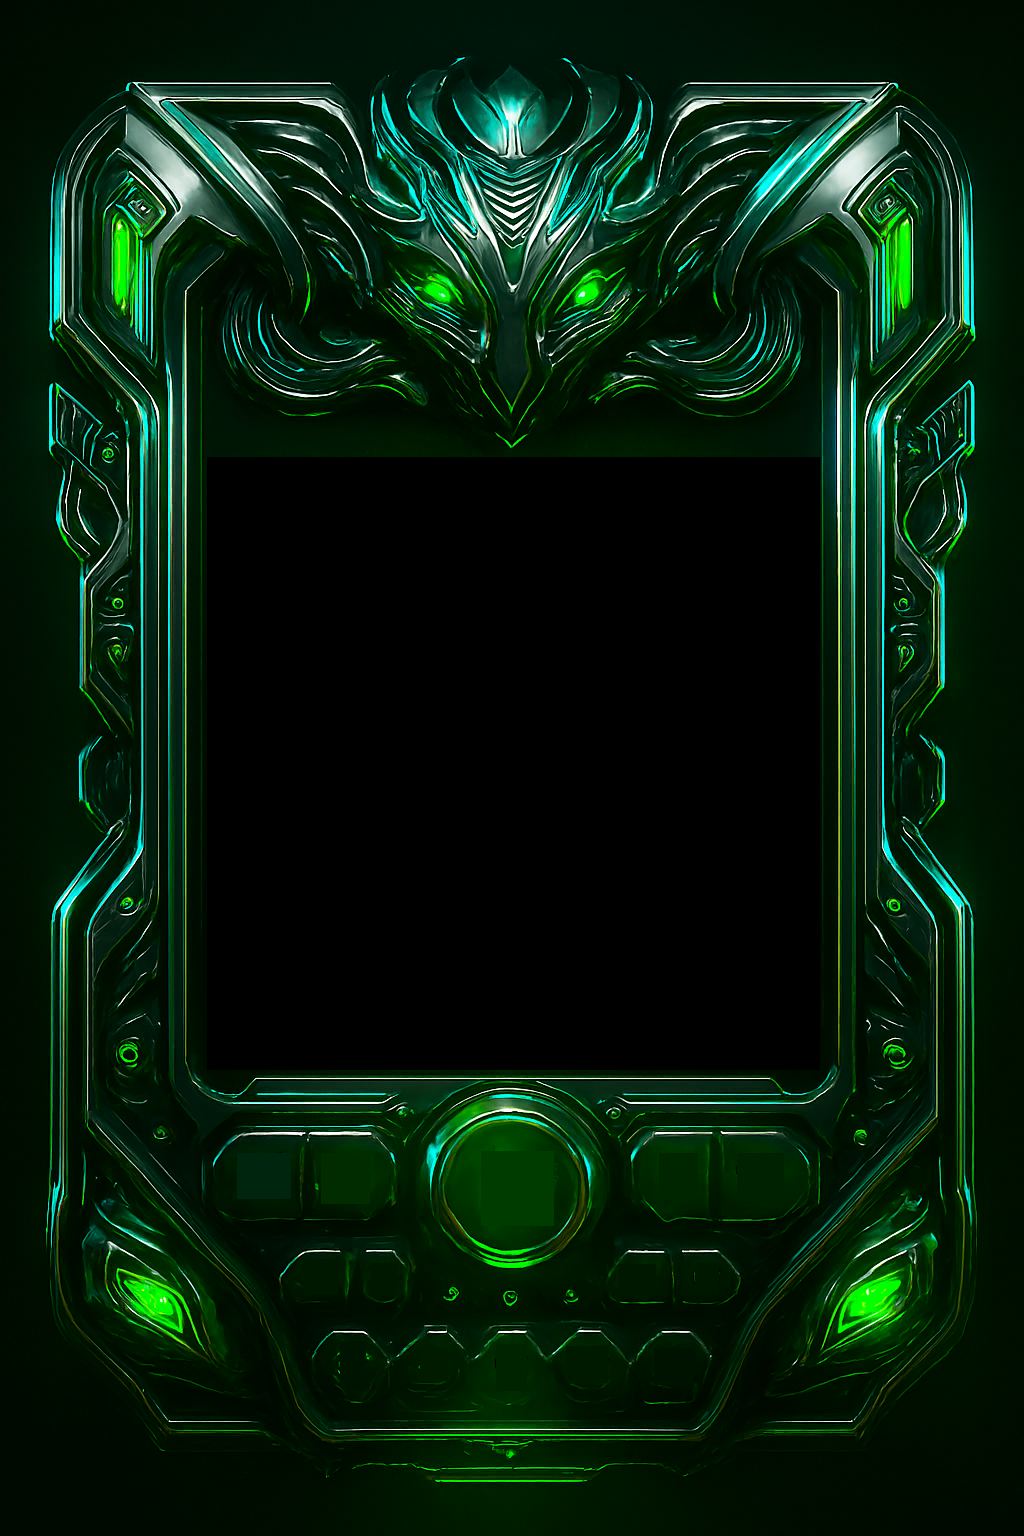
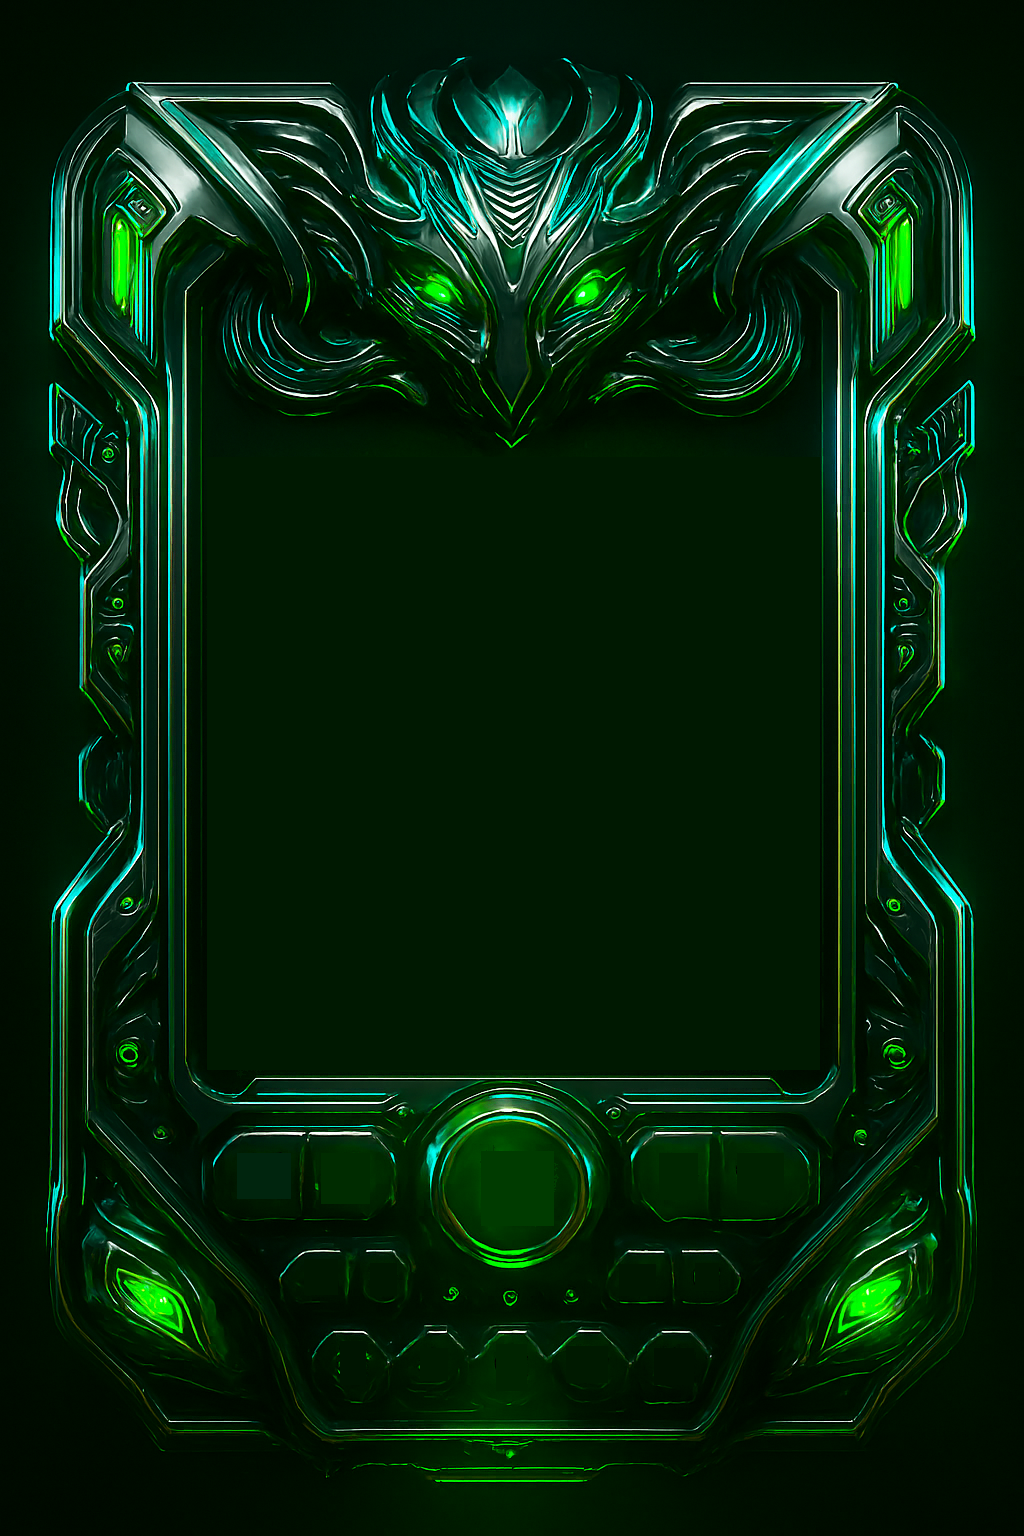
Update MusicPlayer UI styling and background image

Changed region(s): [[0.1875, 0.2812, 0.8125, 0.7188]]

diff --git a/src/components/MusicPlayer.tsx b/src/components/MusicPlayer.tsx
@@ -72,6 +72,7 @@ function MusicPlayer() {
         src="/Copilot_20251116_160743.png"
         alt="Music Player Background"
         className={`absolute inset-0 w-full h-full object-cover transition-opacity duration-300 ${showVideo ? 'opacity-0' : 'opacity-100'}`}
+        style={{ transform: 'scaleX(1.015)' }}
       />
       <video
         src="/grok-video.mp4"
@@ -84,14 +85,21 @@ function MusicPlayer() {
 
       <div className="relative w-full h-full flex flex-col items-center justify-center px-6">
         <div className="absolute inset-0" style={{ transform: 'translateY(69px)' }}>
-          <div className={`absolute top-[18%] left-1/2 -translate-x-1/2 text-center bg-green-950 px-2 py-1 rounded-lg transition-opacity duration-300 ${isPlaying ? 'opacity-100' : 'opacity-0'}`}>
-            <h1 className="text-2xl font-bold text-green-400 tracking-wider mb-0.5 whitespace-nowrap">
-              ELECTRONIC FUTURE
-            </h1>
-            <p className="text-green-500 text-sm tracking-widest whitespace-nowrap">
-              ELECTRONIC DREAMS
-            </p>
-            <p className="text-green-400 text-sm mt-1">1:3:1</p>
+          <div className={`absolute top-[18%] left-1/2 -translate-x-1/2 text-center transition-opacity duration-300 ${isPlaying ? 'opacity-100' : 'opacity-0'}`}>
+            <div className="bg-green-950 px-2 py-0.5 rounded-lg inline-block" style={{ transform: 'translateY(4px)' }}>
+              <h1 className="text-2xl font-bold text-green-400 tracking-wider mb-0.5 whitespace-nowrap">
+                ELECTRONIC FUTURE
+              </h1>
+            </div>
+            <div className="bg-green-950 px-4 py-1 rounded-lg inline-block mt-0.25">
+              <p className="text-green-500 text-sm tracking-widest whitespace-nowrap">
+                ELECTRONIC DREAMS
+              </p>
+            </div>
+            <br />
+            <div className="bg-green-950 px-2 py-1 rounded-lg inline-block">
+              <p className="text-green-400 text-sm">1:3:1</p>
+            </div>
           </div>
 
           <div className={`absolute top-[32%] left-1/2 -translate-x-1/2 w-48 h-48 flex items-center justify-center ${isPlaying ? 'opacity-100' : 'opacity-0'} transition-opacity duration-300`}>
